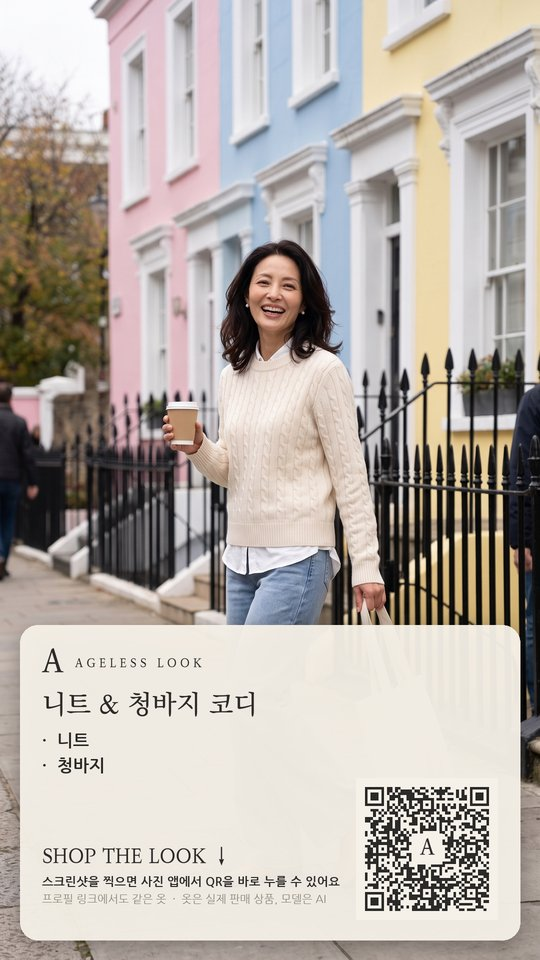
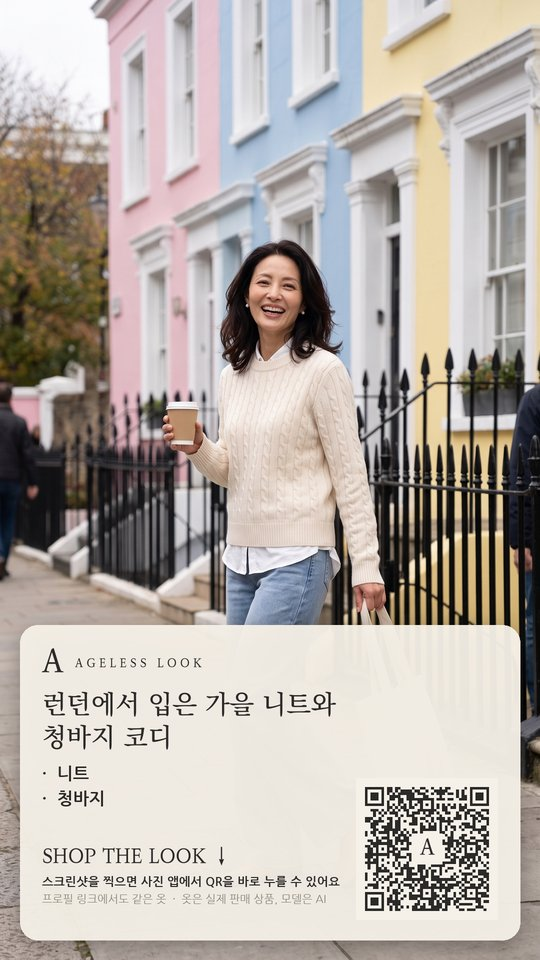
linkpage: 2026-10-16 6 videos

Changed region(s): [[0.0889, 0.7188, 0.6222, 0.8438]]

diff --git a/index.html b/index.html
@@ -26,8 +26,8 @@ footer{text-align:center;color:var(--mute);font-size:12px;padding:20px}
   <div class="body"><div class="date">LOOK No.006 · 2026-10-18 · 공개 예정</div><h2>옷잘입는 중년 가을 트위드자켓 와이드슬랙스 코디</h2>
   <div class="btns"><a class="btn" href="https://link.coupang.com/a/hS8jzfbWdE" target="_blank" rel="noopener sponsored">트위드자켓 →</a><a class="btn" href="https://link.coupang.com/a/hS8J3A6ru0" target="_blank" rel="noopener sponsored">와이드슬랙스 →</a></div></div>
 </article>
-<article class="card" id="p-20261016-9acba693" data-video="QYnBvKThvAc" data-look="005">
-  <a class="thumb" href="https://www.youtube.com/shorts/QYnBvKThvAc" target="_blank" rel="noopener"><img src="thumbs/QYnBvKThvAc.jpg" alt="" loading="lazy"></a>
+<article class="card" id="p-20261016-9acba693" data-video="5OvhwmIfMp4" data-look="005">
+  <a class="thumb" href="https://www.youtube.com/shorts/5OvhwmIfMp4" target="_blank" rel="noopener"><img src="thumbs/5OvhwmIfMp4.jpg" alt="" loading="lazy"></a>
   <div class="body"><div class="date">LOOK No.005 · 2026-10-18 · 공개 예정</div><h2>런던에서 입은 가을 니트와 청바지 코디</h2>
   <div class="btns"><a class="btn" href="https://link.coupang.com/a/hS60lUNusm" target="_blank" rel="noopener sponsored">니트 →</a><a class="btn" href="https://link.coupang.com/a/hS7VjoEpxI" target="_blank" rel="noopener sponsored">청바지 →</a></div></div>
 </article>
